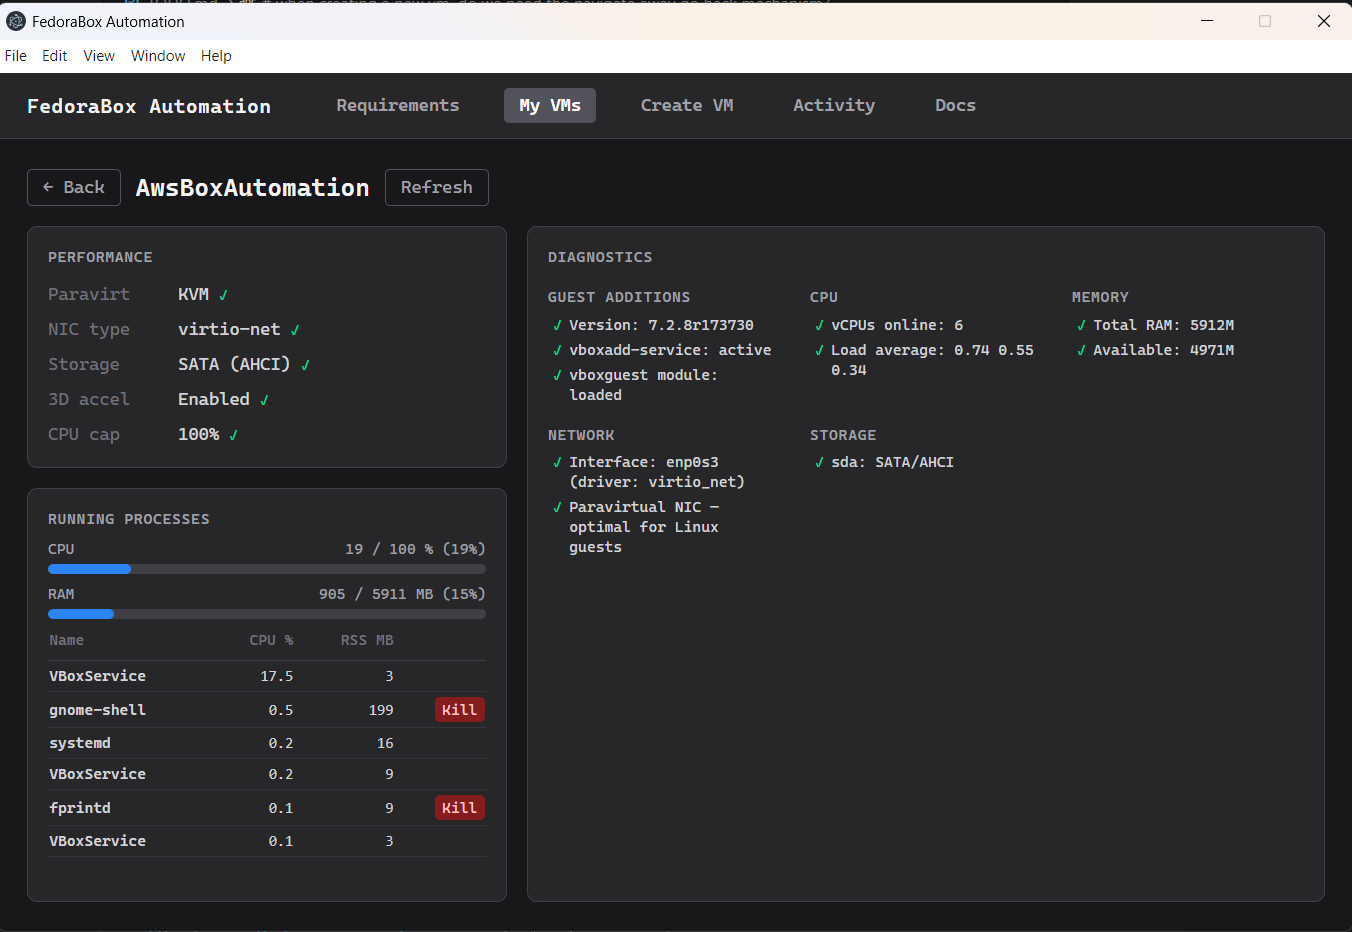
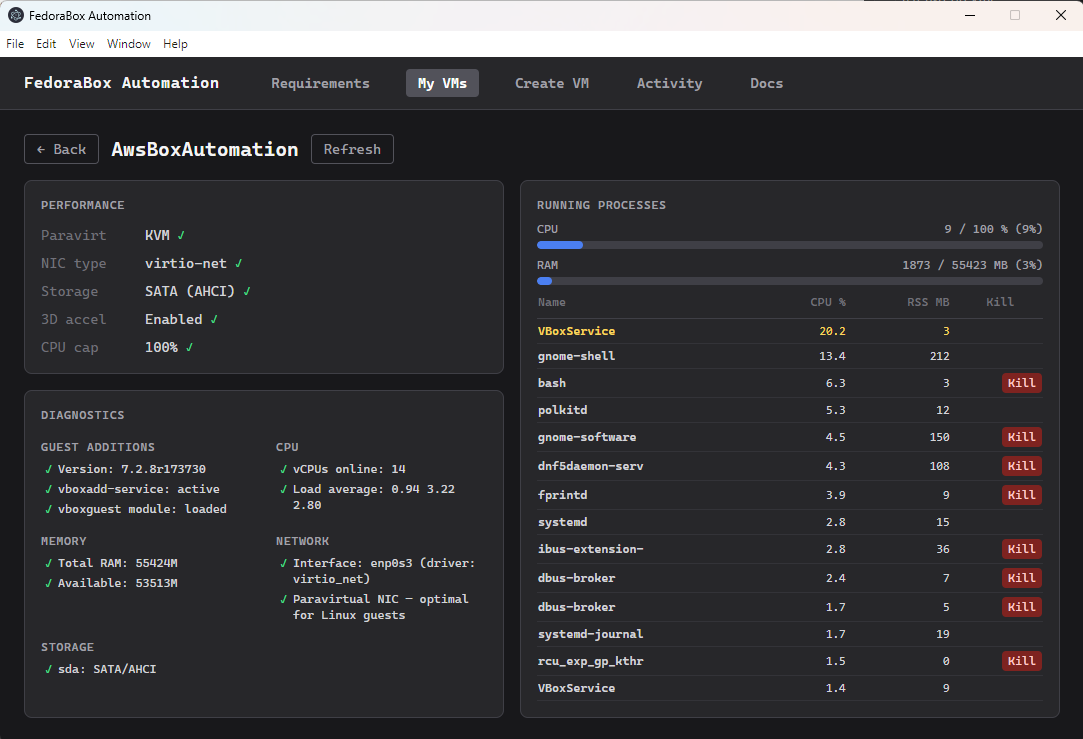
Swap Performance page layout, add UI action logging, reduce sampling overhead
Diagnostics moves to the left column and Running Processes to the full-height
right column; polling is skipped while diagnostics are in flight to avoid
concurrent guestcontrol sessions, and key UI actions are now logged.

performance.sh cut its per-sample subprocess forks from 12 awk + 3 free + 1
head down to 4 awk + 1 free by using bash's builtin `read` instead of
re-parsing values with awk and merging multi-pass awk pipelines into one —
short-lived forks were inflating their own %CPU reading and making awk look
like an expensive process in its own output.

Also fixes the rcu_exp_gp_kthr process tooltip key, which was too long to
ever match the kernel's 15-char truncated comm name, and adds a tooltip for
awk itself.

diff --git a/app/src/pages/PerformancePage.tsx b/app/src/pages/PerformancePage.tsx
@@ -50,6 +50,8 @@ export default function PerformancePage({ vm, onBack, onScriptRunning }: Perform
   const procLoadingRef   = useRef(false)
   const procStateRef     = useRef(procState)
   useEffect(() => { procStateRef.current = procState }, [procState])
+  const diagStateRef     = useRef(diagState)
+  useEffect(() => { diagStateRef.current = diagState }, [diagState])
   const diagUnsubLineRef = useRef<(() => void) | null>(null)
   const diagUnsubDoneRef = useRef<(() => void) | null>(null)
   const diagBufferRef    = useRef<ScriptLine[]>([])
@@ -64,6 +66,7 @@ export default function PerformancePage({ vm, onBack, onScriptRunning }: Perform
   useEffect(() => {
     setInfo(null)
     setLoadError(null)
+    window.electronAPI.logUiAction(`performance "${vm.name}": Load VM info`)
     window.electronAPI.getVmInfo(vm.name).then((result) => {
       if (result.ok) setInfo(result.info)
       else setLoadError(result.error ?? 'Could not load VM info')
@@ -73,6 +76,7 @@ export default function PerformancePage({ vm, onBack, onScriptRunning }: Perform
   // On mount: load credentials, run processes first (fast, ~1.5 s), then diagnostics.
   // Sequential order avoids concurrent guestcontrol sessions that cause session conflicts.
   useEffect(() => {
+    window.electronAPI.logUiAction(`performance "${vm.name}": Load credentials`)
     window.electronAPI.loadVmCredentials(vm.name).then(async (saved) => {
       const user  = saved.ok && saved.user      ? saved.user      : ''
       const pass  = saved.ok && saved.pass      ? saved.pass      : ''
@@ -89,18 +93,21 @@ export default function PerformancePage({ vm, onBack, onScriptRunning }: Perform
     }
   }, [vm.name, credKey])
 
-  function handleRefresh() {
+  async function handleRefresh() {
     window.electronAPI.logUiAction(`performance "${vm.name}": Refresh`)
     setKillError(null)
     setFixError(null)
     setInfoKey((k) => k + 1)
-    loadProcesses()
+    // Sequential order avoids concurrent guestcontrol sessions that cause
+    // session conflicts (same reasoning as the mount effect above).
+    await loadProcesses()
     runDiagnostics(vmUser, vmPass, loginUser)
   }
 
   async function runDiagnostics(user: string, pass: string, login: string) {
     if (!user || !pass) return
 
+    window.electronAPI.logUiAction(`performance "${vm.name}": Run diagnostics`)
     diagUnsubLineRef.current?.(); diagUnsubLineRef.current = null
     diagUnsubDoneRef.current?.(); diagUnsubDoneRef.current = null
 
@@ -210,7 +217,15 @@ export default function PerformancePage({ vm, onBack, onScriptRunning }: Perform
   }
 
   useEffect(() => {
-    const id = setInterval(() => loadProcesses(true), 5000)
+    // Skip polls while diagnostics are in flight — both use guestcontrol on
+    // the same VM and running them concurrently causes session conflicts.
+    const id = setInterval(() => {
+      if (diagStateRef.current === 'running') {
+        window.electronAPI.logUiAction(`performance "${vm.name}": Skipped poll - diagnostics in flight`)
+        return
+      }
+      loadProcesses(true)
+    }, 5000)
     return () => clearInterval(id)
   }, [vm.name, credKey])
 
@@ -270,8 +285,8 @@ export default function PerformancePage({ vm, onBack, onScriptRunning }: Perform
       {info && (
         <div className="flex-1 min-h-0 flex gap-4">
 
-          {/* Left column: Performance settings + Running Processes */}
-          <div className="w-96 shrink-0 flex flex-col gap-4">
+          {/* Left column: Performance settings + Diagnostics */}
+          <div className="w-[30rem] shrink-0 flex flex-col gap-4">
 
             {/* Performance card */}
             <div className="bg-zinc-800 border border-zinc-700 rounded-lg p-4 space-y-3 shrink-0">
@@ -338,115 +353,115 @@ export default function PerformancePage({ vm, onBack, onScriptRunning }: Perform
               </div>
             </div>
 
-            {/* Running Processes card */}
-            <div className="flex-1 min-h-0 bg-zinc-800 border border-zinc-700 rounded-lg p-4 flex flex-col gap-2 overflow-hidden">
-              <div className="flex items-center shrink-0">
-                <Tooltip tip="Top 6 processes inside the VM by CPU usage, sampled via guestcontrol — updates every 5 seconds">
-                  <h2 className="text-zinc-400 text-xs font-semibold uppercase tracking-wider cursor-default">Running Processes</h2>
-                </Tooltip>
-              </div>
+            {/* Diagnostics card */}
+            <div className="flex-1 min-h-0 bg-zinc-800 border border-zinc-700 rounded-lg p-4 flex flex-col gap-3 overflow-hidden">
+              <Tooltip tip="Runs a guest-side check for common performance problems: Guest Additions modules, swap pressure, NIC and storage driver recommendations">
+                <h2 className="text-zinc-400 text-xs font-semibold uppercase tracking-wider cursor-default shrink-0">Diagnostics</h2>
+              </Tooltip>
 
-              {procState === 'idle' && (
-                <p className="text-zinc-500 text-xs">Loading...</p>
-              )}
-              {procState === 'loading' && (
-                <p className="text-zinc-400 text-xs">Sampling CPU usage...</p>
-              )}
-              {procState === 'stopped' && (
-                <p className="text-zinc-500 text-xs">VM is not running.</p>
-              )}
-              {procState === 'no-credentials' && (
-                <p className="text-zinc-500 text-xs">No credentials saved — run a provisioning script first.</p>
-              )}
-              {procState === 'error' && (
-                <p className="text-red-400 text-xs font-mono break-words">{procError}</p>
+              {diagState === 'idle' && !vmUser && (
+                <p className="text-amber-400 text-xs shrink-0">No credentials saved — open Detail to set them.</p>
               )}
 
-              {procState === 'ok' && procSnapshot && (
-                <div className="space-y-2">
-                  <UsageBar label="CPU" used={Math.round(procSnapshot.cpuPct)} total={100} unit="%" tip="Overall CPU usage across all cores, sampled over 500 ms from /proc/stat" />
-                  <UsageBar label="RAM" used={procSnapshot.ramUsedMB} total={procSnapshot.ramTotalMB} unit="MB" tip="Physical memory usage reported by free -m inside the VM" />
-                  <table className="w-full text-xs">
-                    <thead>
-                      <tr className="text-zinc-500 border-b border-zinc-700">
-                        <th className="text-left pb-2 pr-2 font-medium"><Tooltip tip="Process name (comm field from ps)">Name</Tooltip></th>
-                        <th className="text-right pb-2 pr-2 font-medium"><Tooltip tip="CPU usage averaged over the process lifetime">CPU %</Tooltip></th>
-                        <th className="text-right pb-2 pr-2 font-medium"><Tooltip tip="Resident Set Size — physical RAM currently held by this process, in MB">RSS MB</Tooltip></th>
-                        <th className="pb-2 font-medium"></th>
-                      </tr>
-                    </thead>
-                    <tbody>
-                      {procSnapshot.processes.map((p) => {
-                        const heavy = p.cpu > CPU_WARN || p.rssMB > RSS_WARN
-                        return (
-                          <tr key={p.pid} className={`border-b border-zinc-700/50 ${heavy ? 'text-amber-300' : 'text-zinc-300'}`}>
-                            <td className="py-1 pr-2 font-medium truncate max-w-[7rem]">
-                              {PROC_DESC[p.name] ? (
-                                <Tooltip tip={PROC_DESC[p.name]}>
-                                  <span>{p.name}</span>
-                                </Tooltip>
-                              ) : (
-                                <span>{p.name}</span>
-                              )}
-                            </td>
-                            <td className="py-1 pr-2 text-right font-mono">{p.cpu.toFixed(1)}</td>
-                            <td className="py-1 pr-2 text-right font-mono">{p.rssMB}</td>
-                            <td className="py-1 text-right">
-                              {!CRITICAL_PROCS.has(p.name) && (
-                                <Tooltip tip={diagState === 'running' ? 'Wait for diagnostics to finish before killing a process' : killTip(p.name)}>
-                                  <button
-                                    onClick={() => withAuth(() => setKillTarget({ pid: p.pid, name: p.name }))}
-                                    disabled={killing !== null || diagState === 'running'}
-                                    className="px-1.5 py-0.5 text-xs bg-red-900 hover:bg-red-700 text-red-200 rounded transition-colors disabled:opacity-50 disabled:cursor-not-allowed"
-                                  >
-                                    {killing === p.pid ? '...' : 'Kill'}
-                                  </button>
-                                </Tooltip>
-                              )}
-                            </td>
-                          </tr>
-                        )
-                      })}
-                    </tbody>
-                  </table>
+              {diagState === 'running' && diagLines.length === 0 && (
+                <div className="space-y-2 shrink-0">
+                  <p className="text-zinc-300 text-sm font-medium">Running Performance Check...</p>
+                  <ProgressBar />
                 </div>
+              )}
+
+              {diagState === 'running' && diagLines.length > 0 && (
+                <p className="text-zinc-500 text-xs shrink-0">Refreshing...</p>
+              )}
+
+              {diagError && vmNotRunning(diagLines) && (
+                <p className="text-amber-400 text-sm shrink-0">
+                  The VM is not running — start it from My VMs, then Refresh.
+                </p>
+              )}
+
+              {diagError && !vmNotRunning(diagLines) && (
+                <p className="text-red-400 text-xs shrink-0">{diagError}</p>
+              )}
+
+              {diagLines.length > 0 && !vmNotRunning(diagLines) && (
+                <DiagReport sections={parseDiagReport(diagLines)} />
               )}
             </div>
           </div>
 
-          {/* Right column: Diagnostics (full height) */}
-          <div className="flex-1 bg-zinc-800 border border-zinc-700 rounded-lg p-4 flex flex-col gap-3 min-h-0">
-            <Tooltip tip="Runs a guest-side check for common performance problems: Guest Additions modules, swap pressure, NIC and storage driver recommendations">
-              <h2 className="text-zinc-400 text-xs font-semibold uppercase tracking-wider cursor-default shrink-0">Diagnostics</h2>
-            </Tooltip>
+          {/* Right column: Running Processes (full height) */}
+          <div className="flex-1 bg-zinc-800 border border-zinc-700 rounded-lg p-4 flex flex-col gap-2 min-h-0 overflow-hidden">
+            <div className="flex items-center shrink-0">
+              <Tooltip tip="Top 14 processes inside the VM by CPU usage, sampled via guestcontrol — updates every 5 seconds">
+                <h2 className="text-zinc-400 text-xs font-semibold uppercase tracking-wider cursor-default">Running Processes</h2>
+              </Tooltip>
+            </div>
 
-            {diagState === 'idle' && !vmUser && (
-              <p className="text-amber-400 text-xs shrink-0">No credentials saved — open Detail to set them.</p>
+            {procState === 'idle' && (
+              <p className="text-zinc-500 text-xs">Loading...</p>
+            )}
+            {procState === 'loading' && (
+              <p className="text-zinc-400 text-xs">Sampling CPU usage...</p>
+            )}
+            {procState === 'stopped' && (
+              <p className="text-zinc-500 text-xs">VM is not running.</p>
+            )}
+            {procState === 'no-credentials' && (
+              <p className="text-zinc-500 text-xs">No credentials saved — run a provisioning script first.</p>
+            )}
+            {procState === 'error' && (
+              <p className="text-red-400 text-xs font-mono break-words">{procError}</p>
             )}
 
-            {diagState === 'running' && diagLines.length === 0 && (
-              <div className="space-y-2 shrink-0">
-                <p className="text-zinc-300 text-sm font-medium">Running Performance Check...</p>
-                <ProgressBar />
+            {procState === 'ok' && procSnapshot && (
+              <div className="space-y-2">
+                <UsageBar label="CPU" used={Math.round(procSnapshot.cpuPct)} total={100} unit="%" tip="Overall CPU usage across all cores, sampled over 500 ms from /proc/stat" />
+                <UsageBar label="RAM" used={procSnapshot.ramUsedMB} total={procSnapshot.ramTotalMB} unit="MB" tip="Physical memory usage reported by free -m inside the VM" />
+                <table className="w-full text-xs">
+                  <thead>
+                    <tr className="text-zinc-500 border-b border-zinc-700">
+                      <th className="text-left pb-2 pr-2 font-medium"><Tooltip tip="Process name (comm field from ps)">Name</Tooltip></th>
+                      <th className="text-right pb-2 pr-2 font-medium"><Tooltip tip="CPU usage averaged over the process lifetime">CPU %</Tooltip></th>
+                      <th className="text-right pb-2 pr-2 font-medium"><Tooltip tip="Resident Set Size — physical RAM currently held by this process, in MB">RSS MB</Tooltip></th>
+                      <th className="pb-2 font-medium"><Tooltip tip="Force-stop a runaway or stuck process — disabled while diagnostics are running">Kill</Tooltip></th>
+                    </tr>
+                  </thead>
+                  <tbody>
+                    {procSnapshot.processes.map((p) => {
+                      const heavy = p.cpu > CPU_WARN || p.rssMB > RSS_WARN
+                      return (
+                        <tr key={p.pid} className={`border-b border-zinc-700/50 ${heavy ? 'text-amber-300' : 'text-zinc-300'}`}>
+                          <td className="py-1 pr-2 font-medium truncate max-w-[7rem]">
+                            {PROC_DESC[p.name] ? (
+                              <Tooltip tip={PROC_DESC[p.name]}>
+                                <span>{p.name}</span>
+                              </Tooltip>
+                            ) : (
+                              <span>{p.name}</span>
+                            )}
+                          </td>
+                          <td className="py-1 pr-2 text-right font-mono">{p.cpu.toFixed(1)}</td>
+                          <td className="py-1 pr-2 text-right font-mono">{p.rssMB}</td>
+                          <td className="py-1 text-right">
+                            {!CRITICAL_PROCS.has(p.name) && (
+                              <Tooltip tip={diagState === 'running' ? 'Wait for diagnostics to finish before killing a process' : killTip(p.name)}>
+                                <button
+                                  onClick={() => withAuth(() => setKillTarget({ pid: p.pid, name: p.name }))}
+                                  disabled={killing !== null || diagState === 'running'}
+                                  className="px-1.5 py-0.5 text-xs bg-red-900 hover:bg-red-700 text-red-200 rounded transition-colors disabled:opacity-50 disabled:cursor-not-allowed"
+                                >
+                                  {killing === p.pid ? '...' : 'Kill'}
+                                </button>
+                              </Tooltip>
+                            )}
+                          </td>
+                        </tr>
+                      )
+                    })}
+                  </tbody>
+                </table>
               </div>
-            )}
-
-            {diagState === 'running' && diagLines.length > 0 && (
-              <p className="text-zinc-500 text-xs shrink-0">Refreshing...</p>
-            )}
-
-            {diagError && vmNotRunning(diagLines) && (
-              <p className="text-amber-400 text-sm shrink-0">
-                The VM is not running — start it from My VMs, then Refresh.
-              </p>
-            )}
-
-            {diagError && !vmNotRunning(diagLines) && (
-              <p className="text-red-400 text-xs shrink-0">{diagError}</p>
-            )}
-
-            {diagLines.length > 0 && !vmNotRunning(diagLines) && (
-              <DiagReport sections={parseDiagReport(diagLines)} />
             )}
           </div>
 
@@ -655,6 +670,7 @@ const PROC_DESC: Record<string, string> = {
   'fprintd':           'Fingerprint authentication daemon',
   'bash':              'Bash shell session',
   'sh':                'POSIX shell session',
+  'awk':               'Text-processing tool — here it\'s the sampling script itself parsing /proc/stat, free and ps output',
   'python3':           'Python 3 interpreter',
   'python':            'Python interpreter',
   'node':              'Node.js runtime',
@@ -794,7 +810,7 @@ const PROC_DESC: Record<string, string> = {
   'rcu_preempt':       'Kernel RCU (Read-Copy-Update) grace-period thread for the preemptible RCU flavour',
   'rcu_tasks_kthread': 'Kernel RCU-tasks grace-period housekeeping thread',
   'rcu_tasks_rude_kthread': 'Kernel RCU-tasks-rude grace-period housekeeping thread',
-  'rcu_exp_gp_kthread_worker': 'Kernel thread that drives expedited RCU grace periods',
+  'rcu_exp_gp_kthr':   'Kernel thread that drives expedited RCU grace periods',
   'btrfs-cleaner':     'Btrfs kernel thread that cleans up deleted subvolumes and unused extents',
   'btrfs-transaction': 'Btrfs kernel thread that commits filesystem transactions',
 
@@ -903,7 +919,7 @@ function diagTip(text: string): string | undefined {
 function DiagReport({ sections }: { sections: DiagSection[] }) {
   if (sections.length === 0) return null
   return (
-    <div className="grid grid-cols-3 gap-x-6 gap-y-4 pt-1">
+    <div className="grid grid-cols-2 gap-x-6 gap-y-4 pt-1">
       {sections.map((sec) => (
         <div key={sec.title}>
           <p className="text-zinc-400 text-xs font-semibold uppercase tracking-wider mb-1.5">{sec.title}</p>